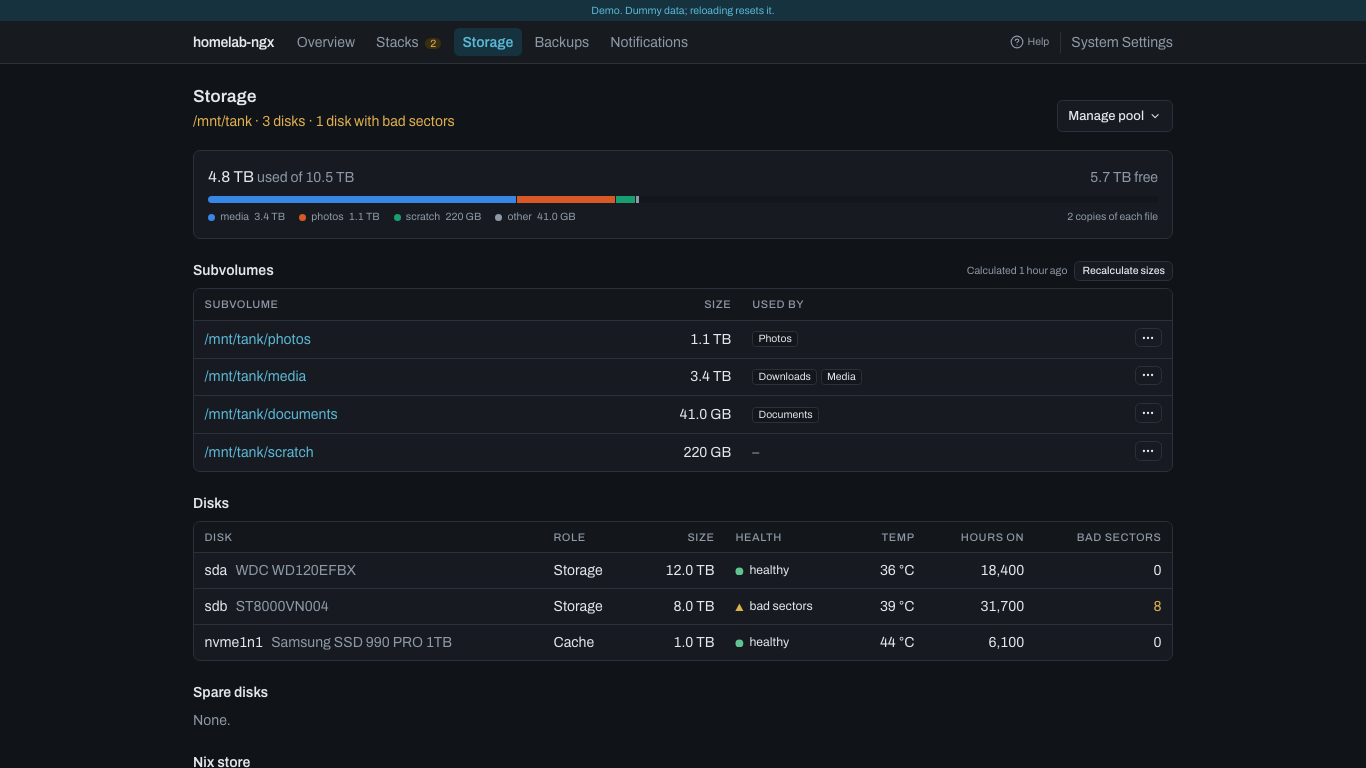
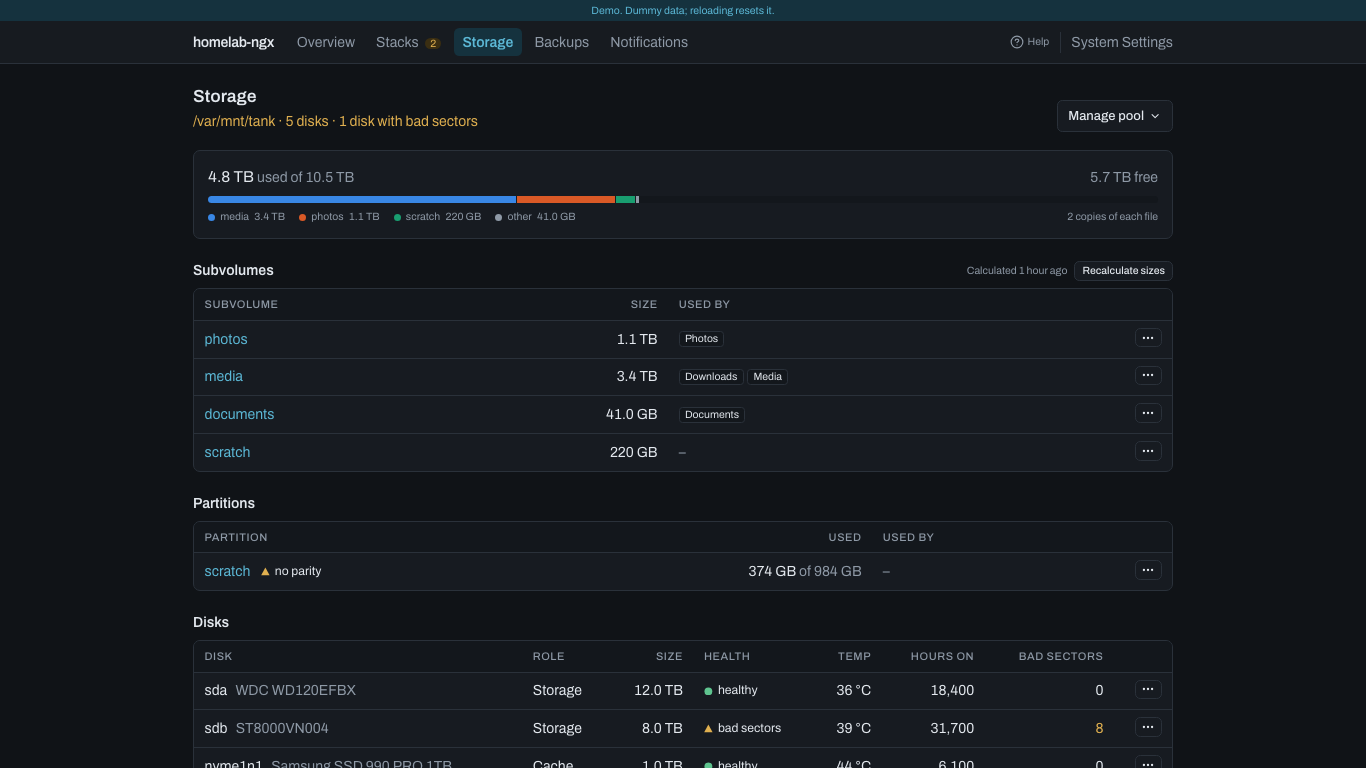
storage: a disk that left a mounted pool is a spare disk at once
The mount of a pool keeps the device number of its first disk, so lsblk
went on showing the removed disk as mounted, and the pool as mounted on
that disk only. The daemon reads the mount's source for both. Found by
the image check's new pool step.

Claude-Session: https://claude.ai/code/session_01DewUfc3pFwJsWcc18LLgtf

diff --git a/apps/core/internal/storage/bcachefs/pool_test.go b/apps/core/internal/storage/bcachefs/pool_test.go
@@ -133,7 +133,9 @@ func sysTree(t *testing.T) (sysDevBlock, mountinfo string) {
 	mountinfo = filepath.Join(root, "mountinfo")
 	body := "22 1 254:0 / / ro,relatime shared:1 - erofs /dev/mapper/root ro\n" +
 		"30 22 259:4 / /var rw,relatime shared:2 - ext4 /dev/nvme0n1p4 rw\n" +
-		"31 22 8:0 / /var/mnt/data rw,relatime shared:3 - ext4 /dev/sdz rw\n"
+		"31 22 8:0 / /var/mnt/data rw,relatime shared:3 - ext4 /dev/sdz rw\n" +
+		// A pool whose first disk, sdl, has left it: the mount keeps sdl's number.
+		"40 22 8:176 / /var/mnt/tank rw,relatime shared:4 - bcachefs /dev/sdm:/dev/sdn rw\n"
 	if err := os.WriteFile(mountinfo, []byte(body), 0o644); err != nil {
 		t.Fatal(err)
 	}
@@ -167,6 +169,8 @@ const candidatesLsblk = `{"blockdevices":[
      {"name":"secret","path":"/dev/mapper/secret","size":1000,"type":"crypt","mountpoints":[null]}]}]},
  {"name":"sdi","path":"/dev/sdi","size":4000000000000,"type":"disk","rota":true,"ro":true,"mountpoints":[null]},
  {"name":"sdj","path":"/dev/sdj","size":4000000000000,"type":"disk","rota":true,"ro":false,"mountpoints":[null]},
+ {"name":"sdl","path":"/dev/sdl","size":4000000000000,"type":"disk","rota":true,"ro":false,"mountpoints":["/var/mnt/tank"]},
+ {"name":"sdm","path":"/dev/sdm","size":4000000000000,"type":"disk","fstype":"bcachefs","rota":true,"ro":false,"mountpoints":["/var/mnt/tank"]},
  {"name":"sr0","path":"/dev/sr0","size":1000,"type":"rom","rota":false,"ro":false,"mountpoints":[null]},
  {"name":"sdk","path":"/dev/sdk","size":0,"type":"disk","model":"Card reader","rota":true,"ro":false,"mountpoints":[null]}
 ]}`
@@ -196,9 +200,10 @@ func TestCandidates(t *testing.T) {
 		"sdd": {"2 partitions", "hdd", ""},
 		"sde": {`bcachefs "old"`, "hdd", "aaaa-bbbb"},
 		"sdj": {`bcachefs "half"`, "hdd", "cccc-dddd"},
+		"sdl": {"", "hdd", ""}, // it left the pool mounted at /var/mnt/tank
 	}
 	if !reflect.DeepEqual(got, want) {
-		t.Fatalf("candidates:\n got %v\nwant %v\n(the system disk, a mounted partition, swap, LUKS, a read-only disk, an empty card reader and a rom are left out)", got, want)
+		t.Fatalf("candidates:\n got %v\nwant %v\n(the system disk, a mounted partition, swap, LUKS, a read-only disk, a mounted pool's disk, an empty card reader and a rom are left out)", got, want)
 	}
 	for _, d := range list {
 		if d.Name == "sdd" && !slices.Equal(d.Parts, []string{"/dev/sdd1", "/dev/sdd2"}) {

diff --git a/apps/core/internal/storage/bcachefs/pool.go b/apps/core/internal/storage/bcachefs/pool.go
@@ -9,6 +9,7 @@ import (
 	"os"
 	"path/filepath"
 	"regexp"
+	"slices"
 	"strconv"
 	"strings"
 	"syscall"
@@ -108,6 +109,22 @@ func (c *Client) Candidates(ctx context.Context) ([]Candidate, error) {
 		return nil, fmt.Errorf("failed to parse lsblk output: %w", err)
 	}
 	system := c.SystemDisks()
+	pools := c.poolSources()
+	// mounted: something on d is mounted. A disk that left a mounted pool is
+	// not: the kernel keeps the device number of the pool's first disk for
+	// the mount, so lsblk goes on listing the pool's mountpoint on it.
+	mounted := func(d lsblkCandidate) bool {
+		for _, m := range append([]string{d.Mountpoint}, d.Mountpoints...) {
+			if m == "" {
+				continue
+			}
+			if members, ok := pools[m]; ok && !slices.Contains(members, d.Path) {
+				continue
+			}
+			return true
+		}
+		return false
+	}
 	var list []Candidate
 	for _, d := range parsed.Blockdevices {
 		if d.Type != "disk" || d.RO || system[d.Name] || lsblkSize(d.Size) == 0 {
@@ -170,16 +187,28 @@ func (c *Client) Candidates(ctx context.Context) ([]Candidate, error) {
 	return list, nil
 }
 
-func mounted(d lsblkCandidate) bool {
-	if d.Mountpoint != "" {
-		return true
+// poolSources is, for each mounted bcachefs pool whose mount names its
+// member devices (/dev/sdb:/dev/sdc), those devices by mountpoint.
+func (c *Client) poolSources() map[string][]string {
+	out := map[string][]string{}
+	data, err := os.ReadFile(c.mountinfo)
+	if err != nil {
+		return out
 	}
-	for _, m := range d.Mountpoints {
-		if m != "" {
-			return true
+	for _, line := range strings.Split(string(data), "\n") {
+		// 552 61 254:64 / /var/mnt/pool rw shared:9 - bcachefs /dev/sdb:/dev/sdc rw
+		before, after, ok := strings.Cut(line, " - ")
+		head, tail := strings.Fields(before), strings.Fields(after)
+		if !ok || len(head) < 5 || len(tail) < 2 || tail[0] != "bcachefs" {
+			continue
 		}
+		members := strings.Split(tail[1], ":")
+		if slices.ContainsFunc(members, func(m string) bool { return !strings.HasPrefix(m, "/dev/") || strings.HasPrefix(m, "/dev/disk/") }) {
+			continue
+		}
+		out[head[4]] = members
 	}
-	return false
+	return out
 }
 
 func named(fstype, label string) string {

diff --git a/apps/core/internal/storage/bcachefs/bcachefs.go b/apps/core/internal/storage/bcachefs/bcachefs.go
@@ -8,6 +8,7 @@ import (
 	"fmt"
 	"os"
 	"path/filepath"
+	"slices"
 	"strconv"
 	"strings"
 	"sync"
@@ -200,14 +201,22 @@ func (c *Client) GetDisks(ctx context.Context) ([]Disk, error) {
 // single /dev/disk/by-uuid/<UUID> source line, not per-member device paths,
 // so we match on the pool's External UUID rather than a disk path. Returns
 // "" if the pool isn't mounted anywhere.
-func (c *Client) findBcachefsMount(uuid string) string {
+//
+// A pool mounted from its device paths has them as its source instead
+// (/dev/sdb:/dev/sdc), so member, when not empty, is matched against those:
+// lsblk shows such a mount on the pool's first disk only, and on that disk
+// still after it left the pool.
+func (c *Client) findBcachefsMount(uuid, member string) string {
 	data, err := os.ReadFile(c.procMounts)
 	if err != nil {
 		return ""
 	}
 	for _, line := range strings.Split(string(data), "\n") {
 		fields := strings.Fields(line)
-		if len(fields) >= 3 && fields[2] == "bcachefs" && strings.Contains(fields[0], uuid) {
+		if len(fields) < 3 || fields[2] != "bcachefs" {
+			continue
+		}
+		if strings.Contains(fields[0], uuid) || (member != "" && slices.Contains(strings.Split(fields[0], ":"), member)) {
 			return fields[1]
 		}
 	}
@@ -308,7 +317,7 @@ func (c *Client) DiscoverPools(ctx context.Context) ([]Pool, error) {
 		// `mountpoint` field is alphabetical and can return a bind or autofs
 		// overlay instead of the real mount. Fall back to whatever lsblk
 		// reported if /proc/mounts has nothing.
-		if canon := c.findBcachefsMount(super.UUID); canon != "" {
+		if canon := c.findBcachefsMount(super.UUID, d.Path); canon != "" {
 			p.State = "mounted"
 			p.Mountdir = canon
 		} else if d.Mountpoint != "" {

diff --git a/apps/core/internal/storage/bcachefs/bcachefs_test.go b/apps/core/internal/storage/bcachefs/bcachefs_test.go
@@ -140,6 +140,21 @@ func TestFriendlyNameCachedAndFallsBack(t *testing.T) {
 	}
 }
 
+// A pool mounted from its device paths, whose first disk has left it: no
+// remaining member has the mountpoint in lsblk, and the mount's source names
+// the members.
+func TestDiscoverPoolsMountedFromDevicePaths(t *testing.T) {
+	c, f := newClient(t, "/dev/sda:/dev/sdc:/dev/sdd /var/mnt/tank bcachefs rw 0 0\n")
+	f.On("lsblk").Reply(strings.ReplaceAll(fixture(t, "lsblk.json"), `"mountpoint": "/pool"`, `"mountpoint": null`))
+	pools, err := c.DiscoverPools(context.Background())
+	if err != nil || len(pools) != 1 {
+		t.Fatalf("pools=%v err=%v", pools, err)
+	}
+	if pools[0].State != "mounted" || pools[0].Mountdir != "/var/mnt/tank" {
+		t.Fatalf("pool = %+v", pools[0])
+	}
+}
+
 func TestDiscoverPoolsMounted(t *testing.T) {
 	mounts := "/dev/sdb:/dev/sda:/dev/sdc:/dev/sdd /pool bcachefs rw,nosuid 0 0\n" +
 		"/dev/nvme0n1p2 /var ext4 rw 0 0\n"

diff --git a/docs/solutions/integration-issues/bcachefs-pool-commands.md b/docs/solutions/integration-issues/bcachefs-pool-commands.md
@@ -7,6 +7,7 @@ problem_type: integration_issue
 component: storage
 symptoms:
   - A disk removed from a pool is still listed as its member
+  - lsblk shows a pool's mountpoint on a disk that left the pool
   - show-super still answers on a disk after wipefs -a
   - device evacuate never returns when the other disks are too small
 root_cause: tool_behaviour
@@ -74,6 +75,17 @@ answers with the pool's UUID and label, and `lsblk` shows it as `bcachefs`.
 A mount that names it with the pool's other disks succeeds and ignores it.
 The daemon finds a pool's members by that UUID, so it wipes a disk after
 removing it.
+
+## A pool's mount keeps its first disk's number
+
+The mount of a pool has the device number of the first disk it was mounted
+from, and keeps it when that disk is removed. `lsblk` matches mounts by that
+number: it shows the pool's mountpoint on that one disk only, and still
+shows it there after the disk has left the pool and been wiped. The source
+in `/proc/self/mountinfo` is right: it lists the members
+(`/dev/vdf:/dev/vdg`) and changes when one is added or removed. The daemon
+reads the source to tell which pool is mounted where, and whether a disk
+with a mountpoint in `lsblk` is in use.
 
 ## Wipe
 
